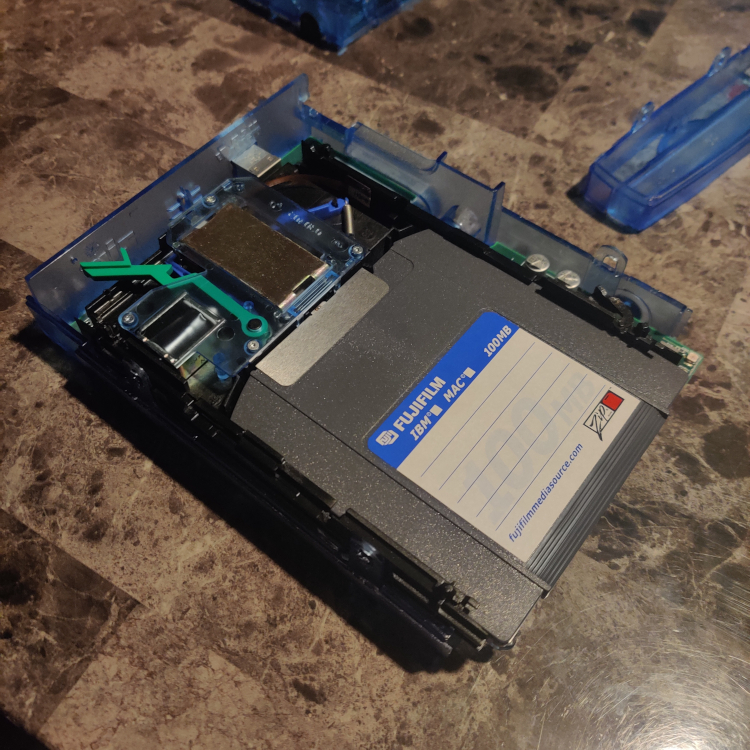
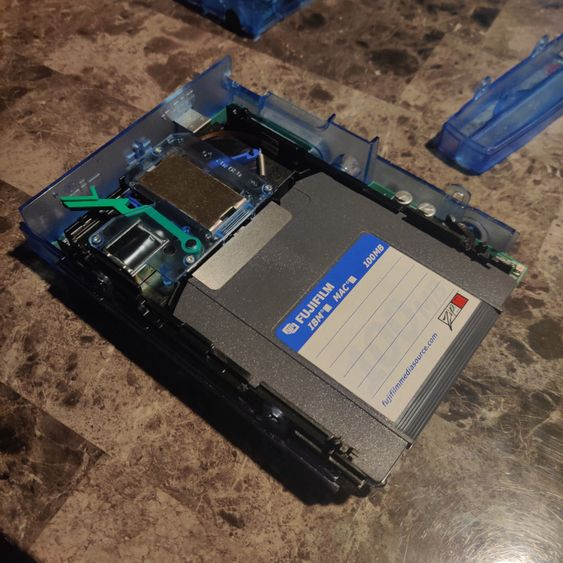
post and optimization07162023

diff --git a/index.html b/index.html
@@ -84,6 +84,8 @@
         </div>
 	</div>
 	<hr>
+	<p style="space-item">7-16-23 - In the process of making pictures smaller on this site. Found this ezgif site it makes it easy to do. The GIFs I shrunk down and some the other pictures are optimized. I was opening the site on Kmelon on windows 2000 on a pentium iii and it crashed. xP The GIFs are too big on small resolutions anyway. Also I might want to make a script to automatically put syntax around what I want to say idk.</p>
+	<hr>
 	<p style="space-item">4-4-23 - Doing a little update to the site. I have switched around laptops recently and also been trying to get into my huddles, or clash or byte, whatever its called lmao. I can't get in on my phone or the computer. Also I have my videos synced on rumble now. Wish I could get them on odysee but oh well. I have a new AMD laptop with dedicated graphics and now using hyprland which is for wayland. Also adjusting the about me page, so if the wording seems awkward that's why.</p>
 	<hr>
 	<p style="space-item">9-9-22 - Starting second year of college. I've bought a second galaxy s8 but this one is the europe model so i can unlock the bootloader and install some form of lineage os. Also messing with Windows Whistler and Longhorn on the pentium iii pc. I have one part of a series up so far but I need to edit the second part. Often times I am actually busy or I'm busy being tired, so it's easier to make streams. I have been using Gentoo on my laptop and PC and actually know what I'm doing somewhat. Got proton to work properly too so and fixed the save file situation with Amnesia AWFP so I can eventually stream me playing the second level.</p>
@@ -189,14 +191,14 @@
 	<img src="https://raw.githubusercontent.com/morganb99/mywebsite/main/pictureindex/cl2.png" alt="Cool logo 2" width="452" height="98">
 	<p>10-25-21 - During my break at college I found a "flaming text" site that makes these cheesy images with whatever text you want. Might use this somewhere eventually. Also I approve of the Surf browser for once. It's nice for slightly more immediate feedback on whether something works if the circumstance kept me from being able to test in an HTML testing site. It doesn't cache the site if you've been there before already so you will see the most recent changes as soon as possible.</p>
 	<hr>
-	<img src="https://raw.githubusercontent.com/morganb99/mywebsite/main/pictureindex/minecraft118.png" alt="Minecraft 1.18" width="443" height="233">
+	<img src="https://raw.githubusercontent.com/morganb99/mywebsite/main/pictureindex/minecraft118.jpg" alt="Minecraft 1.18" width="443" height="233">
 	<p>10-24-21 - I've been playing on the 21w42a snapshot of Minecraft and it is quite a treat. Also went to church which I barely do now and then for the experience.</p>
 	<p>Moved some files around in the website's github repo so might take some time and a few commits to fix a picture that I forgot to change the link for. And I don't see the point of having different branches if I can't monitor the master branch privately and have an older one be the one that is public to everyone. I'm sure something like that exists but I don't know how to do it yet so if you come here while I'm working on stuff it may be a little broken and you will have to come back in like 10 minutes for me to unbreak it.</p>
 	<hr>
 	<img src="https://raw.githubusercontent.com/morganb99/mywebsite/main/pictureindex/zip.jpg" alt="Zip disk drive" width="300" height="300">
 	<p style="space-item">10-22-21 - I have been trying to get this Zip disk drive to work that I've had for a while. Just got a zip disk for it but the lights just keep blinking. I think it's cause the power supply I try with it is the wrong voltage. I need to find all the pieces to my universal power adapter. It's super weird because it has a USB A port and barrel power jack. It says on the label it needs 5 volts but I thought you can usually get that much at least about of USB?</p>
 	<p>It's so crazy, I just found the same exact model and at buy it now price it is $91. I guess I'm either fixing what I got or I'm giving up. I'd rather get a 1TB SSD for that much.😆</p>
-	<img src="https://raw.githubusercontent.com/morganb99/mywebsite/main/pictureindex/xp.png" alt="xp" width="456" height="283">
+	<img src="https://raw.githubusercontent.com/morganb99/mywebsite/main/pictureindex/xp.jpg" alt="xp" width="456" height="283">
     <p>Also happy anniversary to Windows 7 and early 20th anniversary to Windows XP! Tons of good times I had with it recently and back then.</p>
 	<hr>
 	<img src="https://raw.githubusercontent.com/morganb99/mywebsite/main/pictureindex/engl.png" alt="It's ok you can't see the essay it's just OK.">

diff --git a/contact.html b/contact.html
@@ -75,7 +75,7 @@
 		</div>
 		<div class="grid-item">My morganb290 got hacked but here is my current one.</div>
 	</div>
-	<img src="https://raw.githubusercontent.com/morganb99/mywebsite/main/picturecontact/shaggy.jpg" alt="Shaggy">
+	<img src="https://raw.githubusercontent.com/morganb99/mywebsite/main/picturecontact/shaggy.jpg" alt="Shaggy" style="box-shadow: 8px 8px 34px -8px rgba(66, 68, 90, 1);">
 	<p><a href="https://morganb99.github.io">go home</a></p>
 </body>
 </html>
